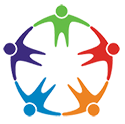
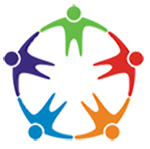
Ny header/nav, artiklar
nya bätrre färger och ramar

diff --git a/webbprojekt 1/site/index.html b/webbprojekt 1/site/index.html
@@ -3,7 +3,6 @@
 <head>
     <meta charset="UTF-8">
     <meta name="viewport" content="width=device-width, initial-scale=1.0">
-    <meta http-equiv="X-UA-Compatible" content="ie=edge">
     <link rel="stylesheet" href="css/index.css">
     <link rel="stylesheet" href="https://cdnjs.cloudflare.com/ajax/libs/font-awesome/4.7.0/css/font-awesome.min.css">
     <title>Document</title>
@@ -12,21 +11,29 @@
     <div class="container">
         <header>
             <div class="bild">
-                <img src="img/senior.png" alt="logo">
+                <img src="img/senior2.png" alt="logo">
             </div>
             <div class="borja">
-                <a href="#">Börja träna</a>
+                <a href="#"><b>Börja träna</b></a>
             </div>
-            <div class="meny">
-                <a href="#">Meny<i class="fa fa-caret-down" style="font-size:48px;color:white"></i></a>
-                <!-- <select name="" id="">
-                    <option value=""> blabla</option>
-                    <option value=""> blabla2</option>
-                </select> -->
-            </div>
+            <div class="dropdown">
+                <button class="dropbtn"><b>Meny</b> <i class="fa fa-caret-down" style="font-size:26px"></i></button>
+                <div class="dropdown-content">
+                  <a href="#">Länk 1</a>
+                  <a href="#">Länk 2</a>
+                  <a href="#">Länk 3</a>
+                </div>
+              </div>
         </header>
-
-
+        <div class="art1">
+            <h2>Välkomen till Seniorträning</h2>
+            <p>Det finns många olika varianter av Lorem Ipsum, men majoriteten av dessa har ändrats på någotvis. Antingen med inslag av humor, eller med inlägg av ord som knappast ser trovärdiga ut. Skall man använda långa stycken av Lorem Ipsum bör man försäkra sig om att det inte gömmer sig något pinsamt mitt i texten. Lorem Ipsum-generatorer på internet tenderar att repetera Lorem Ipsum-texten styckvis efter behov, något som gör denna sidan till den första riktiga Lorem Ipsum-generatorn på internet. Den använder ett ordförråd på över 200 ord, kombinerat med ett antal meningsbyggnadsstrukturer som tillsamman genererar Lorem Ipsum som ser ut som en normal mening. Lorem Ipsum genererad på denna sidan är därför alltid fri från repetitioner, humorinslag, märkliga ordformationer osv.I motsättning till vad många tror, är inte Lorem Ipsum slumpvisa ord. Det har sina rötter i ett stycke klassiskt litteratur på latin från 45 år före år 0, och är alltså över 2000 år gammalt.
+            </p>
+        </div>
+        <div class="art2">
+            <h2>Hur ska du börja?</h2>
+            <p>Den ursprungliga Lorem Ipsum-texten från 1500-talet är återgiven nedan för de intresserade. Styckena 1.10.32 och 1.10.33 från "de Finibus Bonorum et Malorum" av Cicero hittar du också i deras originala form, åtföljda av de engelska.</p>
+        </div>
     </div>
 </body>
 </html>

diff --git a/webbprojekt 1/site/css/index.css b/webbprojekt 1/site/css/index.css
@@ -2,52 +2,123 @@
     height: 768px;
     width: 1024px;
     grid-template-columns: repeat(12, 1fr);
-    grid-template-rows: repeat(20, 1fr);
+    grid-template-rows: repeat(12, 1fr);
     background-color: lightblue;
     margin-left: auto;
     margin-right: auto;
     display: grid;
     grid-column-gap: 2px;
+    background-color: rgb(155, 149, 149);
 }
 
 header{
     grid-column: 1 / 13;
-    grid-row: 1 / 5;
-    background-color: white;
+    grid-row: 1 / 4;
+    background-color: darkred;
     display: grid;
-    grid-template-columns: repeat(9, 1fr);
+    grid-template-columns: repeat(12, 1fr);
+    grid-template-rows: repeat(3, 1fr);
+    border: solid black 2px;
 }
 
 .bild{
-    grid-column: 1 / 3;
+    grid-column: 1 / 4;
     grid-row: 1 / 5;
-    padding-left: 53px;
-    padding-top: 17px;
+    display: grid;
+    background-color: white;
+    border-radius: 50%;
+    border: solid black 2px;
+    align-content: center;
+    justify-content: center;
 }
 
 .borja{
-    grid-column: 4 / 6;
-    grid-row: 2 / 4;
-    background-color: grey; 
+    grid-column: 5 / 8;
+    grid-row: 2 / 3;
+    background-color: white; 
     display: grid;
     font-family: Arial, Helvetica, sans-serif;
     font-size: 30px;
     align-content: center;
     text-align: center;
+    border: solid black 2px;
 }
 
+.borja a{
+    color: black;
+}
+
+.borja a:hover{
+    color: darkred;
+}
+   
 a{
     text-decoration: none;
-    color: white;
+    color: black;
 }
 
-.meny{
-    grid-column: 7 / 9;
-    grid-row: 2 / 4;
+.dropbtn {
+    background-color: white;
+    color: black;
+    padding: 16px;
+    font-size: 26px;
+    border: solid black 2px;
+}
+
+.dropdown {
+    grid-column: 9 / 12;
+    grid-row: 2 / 3;
     display: grid;
-    align-content: center;
-    background-color: grey;
-    font-family: arial;
-    font-size: 30px;
+}
+
+.dropdown-content {
+    display: none;
+    position: absolute;
+    background-color: #f9f9f9;
+    min-width: 200px;
+    box-shadow: 0px 8px 16px 0px rgba(0,0,0,0.2);
+    font-family: Arial, Helvetica, sans-serif;
+}
+
+.dropdown-content a {
+    color: black;
+    padding: 12px 16px;
+    text-decoration: none;
+    display: block;
+}
+
+.dropdown-content a:hover {
+    background-color: #f1f1f1;
+    color: darkred;
+}
+
+.dropdown:hover .dropdown-content {
+    display: block;
+}
+
+.dropdown:hover .dropbtn {
+    background-color:darkgrey;
+}
+
+.art1{
+    grid-column: 2 / 12;
+    grid-row: 5 / 9;
+    background-color: white;
+    border: solid black 2px;
+    font-family: Arial, Helvetica, sans-serif;
+    padding-left: 5px;
+}
+
+.art2{
+    grid-column: 2 / 12;
+    grid-row: 10 / 12;
+    background-color: white;
+    border: solid black 2px;
+    font-family: Arial, Helvetica, sans-serif;
+    padding-left: 5px;
+}
+
+h2{
     text-align: center;
 }
+
